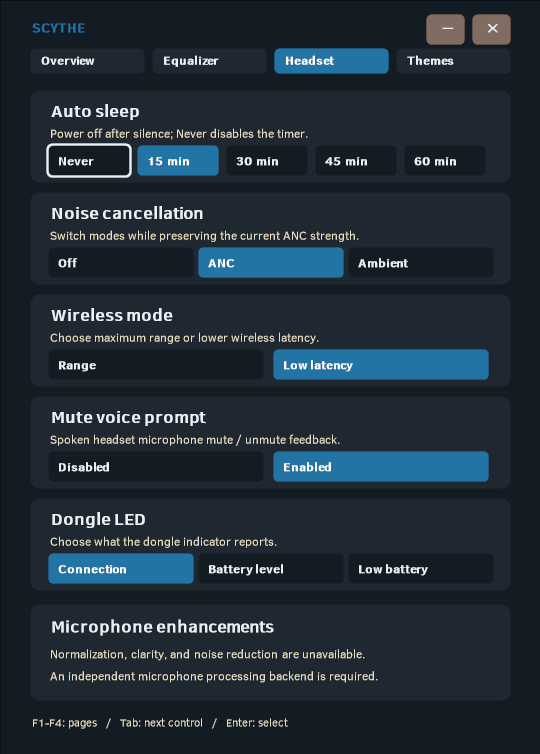
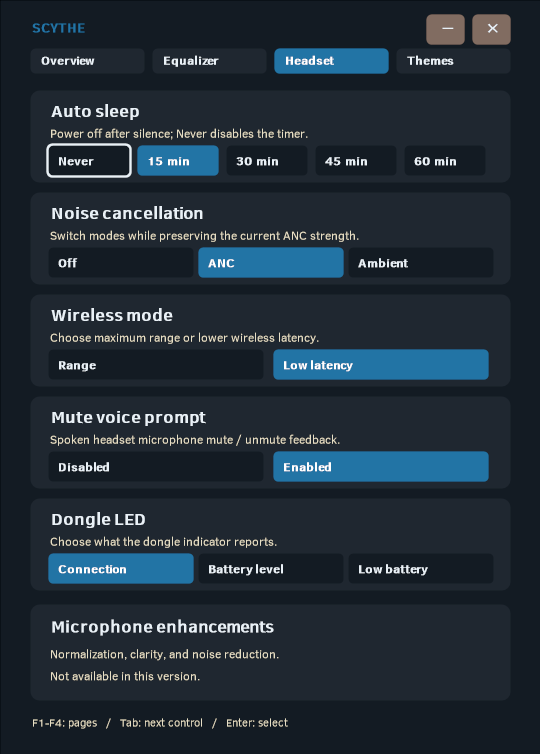
Simplify microphone enhancement availability wording

Changed region(s): [[0.0889, 0.8541, 0.7111, 0.9151]]

diff --git a/src/ui.rs b/src/ui.rs
@@ -1248,7 +1248,7 @@ unsafe fn paint_features(dc: HDC, s: &State, page: u8) {
                     644,
                     440,
                     20,
-                    "Normalization, clarity, and noise reduction are unavailable.",
+                    "Normalization, clarity, and noise reduction.",
                     p.muted,
                     12,
                     400,
@@ -1259,7 +1259,7 @@ unsafe fn paint_features(dc: HDC, s: &State, page: u8) {
                     666,
                     440,
                     20,
-                    "An independent microphone processing backend is required.",
+                    "Not available in this version.",
                     p.muted,
                     12,
                     400,
